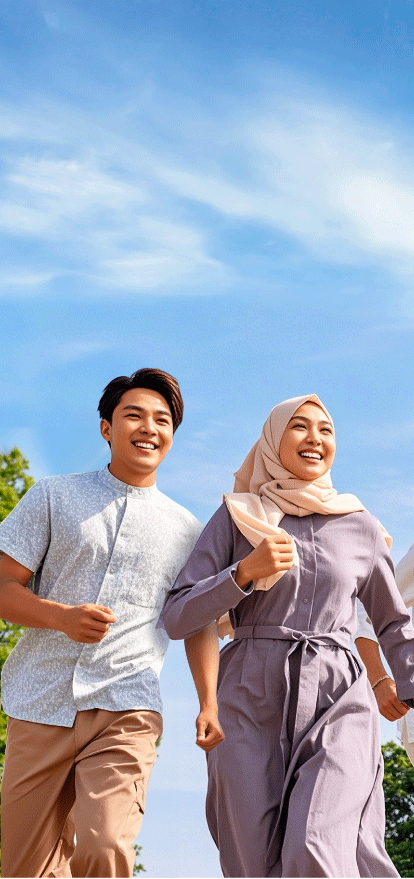
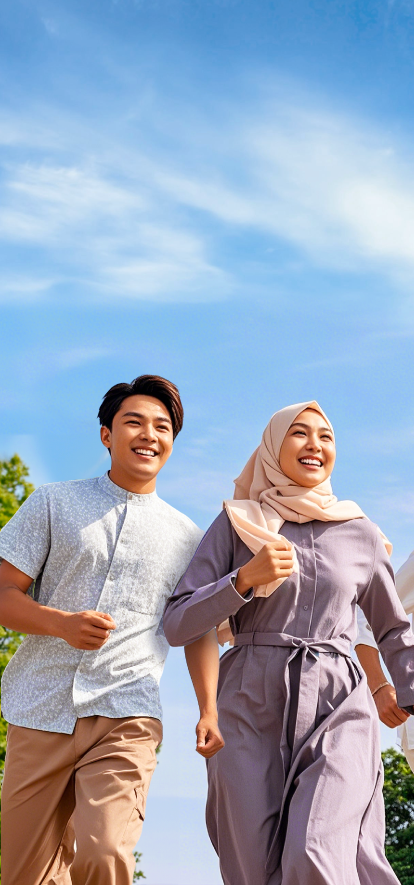
dsd

diff --git a/src/app/models/slide-data.ts b/src/app/models/slide-data.ts
@@ -88,3 +88,33 @@ export const whyata3 = [
         descption: "It is a long established fact that a reader will be distracted by the readable content of a page when looking at its layout"
     }
 ];
+
+export const whyata4 = [
+    {
+        url: "../../../../assets/images/AtaPlus-07.png",
+        title: "Star Grower",
+        subtitle: "Agriculture",
+        min: "1,200,000",
+        class: '',
+        raised: "500,000",
+        descption: "Stargrower cultivates dragon fruits and gingers to address food security challenges. The company aims to ensure a consistent, reliable supply to meet consumer's nutritional needs, revolutionizing how the world thinks about and consumes these vital crops."
+    },
+    {
+        url: "../../../../assets/images/AtaPlus-08.png",
+        title: "Andy Adams",
+        subtitle: "Finance",
+        class: '',
+        min: "1,00,000",
+        raised: "50,000",
+        descption: "It is a long established fact that a reader will be distracted by the readable content of a page when looking at its layout"
+    },
+    {
+        url: "../../../../assets/images/images.jpeg",
+        title: "Andy Adams",
+        subtitle: "Finance",
+        min: "1,00,000",
+        class: '',
+        raised: "50,000",
+        descption: "It is a long established fact that a reader will be distracted by the readable content of a page when looking at its layout"
+    }
+];

diff --git a/src/app/components/landing_page/main/main.component.ts b/src/app/components/landing_page/main/main.component.ts
@@ -1,6 +1,6 @@
 import { Component, Input, OnInit } from "@angular/core";
 import { LoaderService } from "src/app/service/loader.service";
-import { whyata3 } from "src/app/models/slide-data";
+import { whyata3, whyata4 } from "src/app/models/slide-data";
 import { animate, state, style, transition, trigger } from '@angular/animations';
 
 @Component({
@@ -22,7 +22,7 @@ import { animate, state, style, transition, trigger } from '@angular/animations'
 })
 export class Main implements OnInit {
   isMobile: boolean = false;
-  @Input() slides: any[] = whyata3;
+  @Input() slides: any[] = whyata4;
 
   constructor(private loaderService: LoaderService) {
   }

diff --git a/src/app/components/landing_page/whyataplus/whyataplus.component.scss b/src/app/components/landing_page/whyataplus/whyataplus.component.scss
@@ -26,7 +26,7 @@ h2 {
 }
 
 #hero {
-    background-image: url('../../../../assets/images/ataplusDesktop.png');
+    background-image: url('../../../../assets/images/cover02.png');
     background-size: cover;
     background-position: top;
     background-repeat: repeat;

diff --git a/src/app/components/landing_page/subfooter/footer.component.scss b/src/app/components/landing_page/subfooter/footer.component.scss
@@ -43,6 +43,9 @@
 }
 
 @media only screen and (max-width:767px) {
+  .footer-top {
+    background-image: url('../../../../assets/images/AtaPlus-64.png');    
+  }
 
   .footer-top .btn-right {
     text-align: left;
